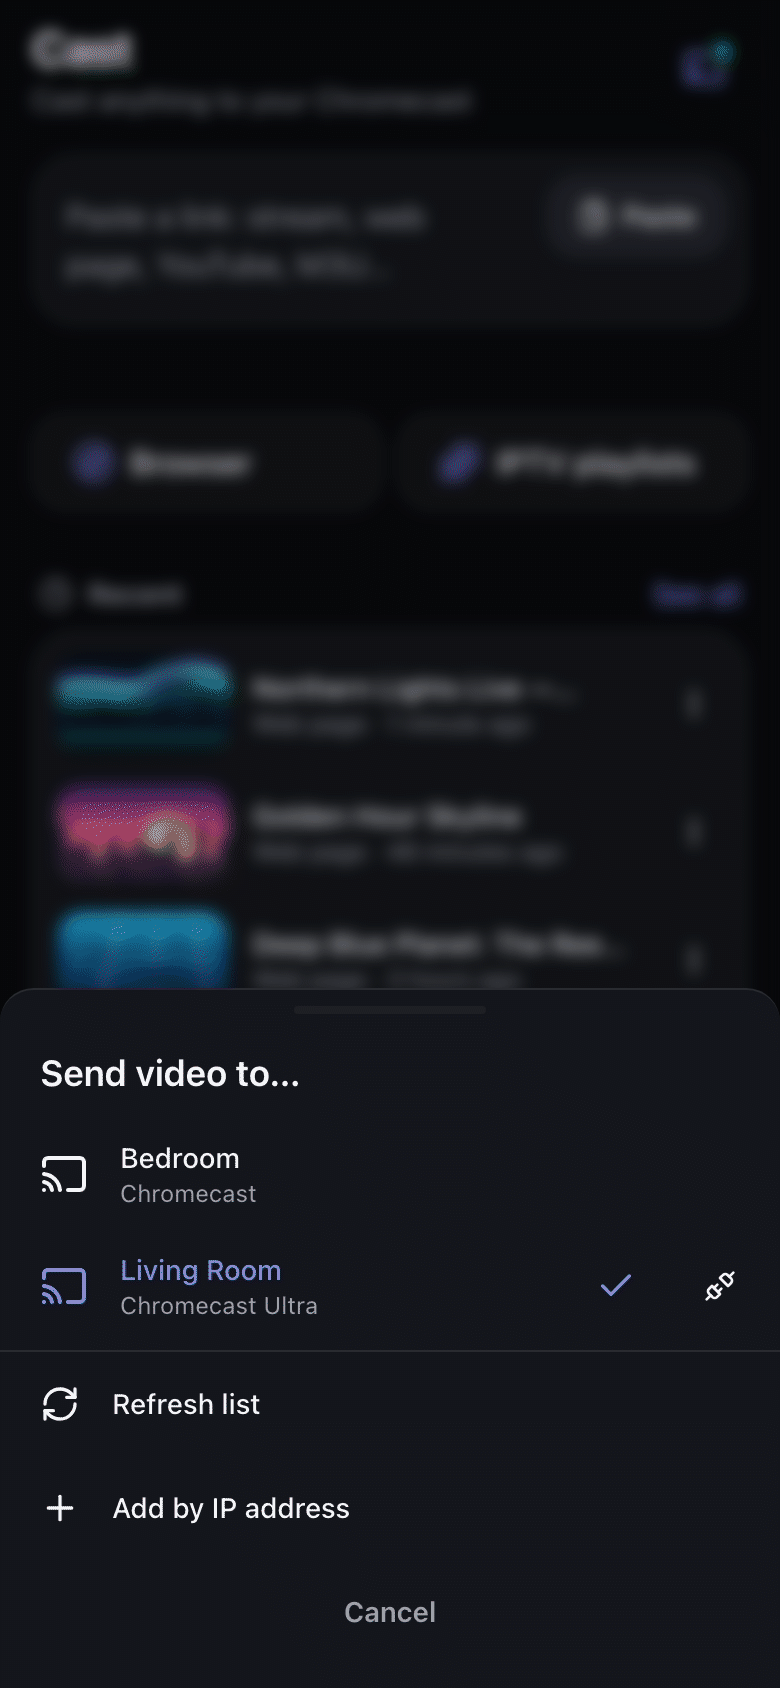
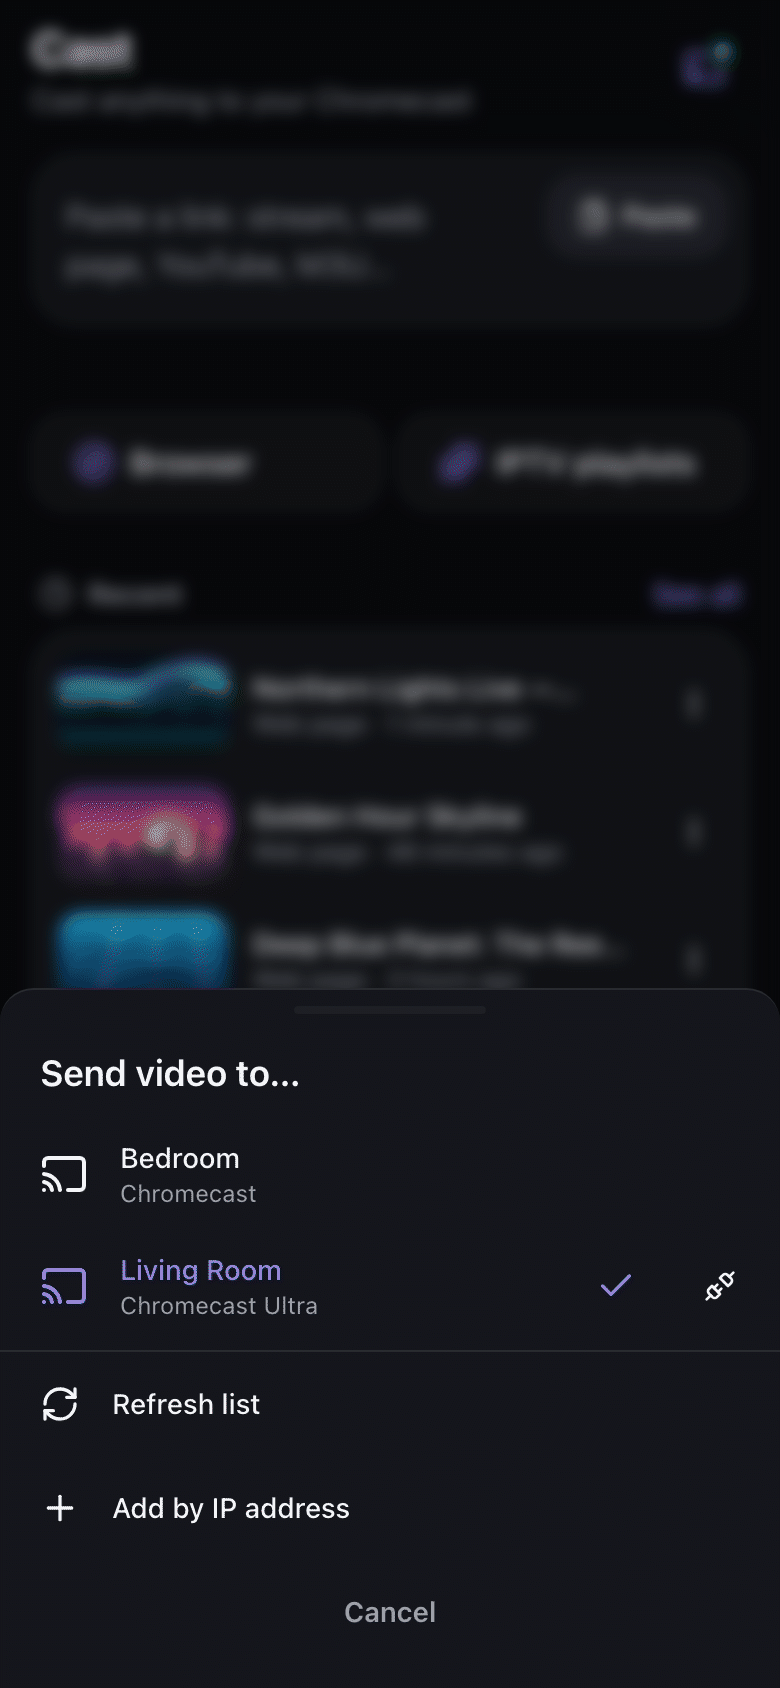
docs: regenerate screenshots after the design pass; live sync in the feature list

diff --git a/README.it.md b/README.it.md
@@ -54,7 +54,8 @@ Chromecast, con un browser remoto integrato che trova da solo il video dentro le
 - Play/pausa, seek, ±10 s, *Vai al live*, volume, sottotitoli e tracce audio, precedente/successivo.
 - **Coda** lato server (riordina, rimuovi), **preferiti**, **cronologia**, **immagine di attesa** sulla TV.
 - **Siti salvati**: metti una stella a una pagina nel browser remoto e riaprila con un tocco dalla Home o dalla Libreria.
-- Tutti i telefoni, tablet e PC aperti restano **sincronizzati in tempo reale** via WebSocket.
+- Tutti i telefoni, tablet e PC aperti restano **sincronizzati in tempo reale** via WebSocket: riproduzione, coda,
+  preferiti, cronologia, playlist e impostazioni.
 - **Non sembra mai bloccato**: *Caricamento…*, *Connessione lenta…* e *Riconnessione… tentativo 1/3* direttamente
   sul player.
 - **Le dirette ripartono da sole**: se il Chromecast perde una diretta (un segmento bloccato, un intoppo del CDN) il

diff --git a/README.md b/README.md
@@ -53,7 +53,8 @@ with a built-in remote browser that finds the video inside web pages for you.
 - Play/pause, seek, ±10 s, *Go live*, volume, subtitles and audio tracks, previous/next.
 - Server-side **queue** (reorder, remove), **favorites**, **history**, an **idle image** on the TV.
 - **Saved sites**: star a page in the remote browser and reopen it in one tap from Home or the Library.
-- Every open phone, tablet and PC stays **in sync in real time** over WebSocket.
+- Every open phone, tablet and PC stays **in sync in real time** over WebSocket: playback, queue, favorites, history,
+  playlists and settings.
 - **Never looks frozen**: *Loading…*, *Slow connection…* and *Reconnecting… attempt 1/3* right on the player.
 - **Live streams come back on their own**: when the Chromecast drops a live stream (a stalled segment, a CDN hiccup)
   the server reloads it, up to 3 times, before giving up.
